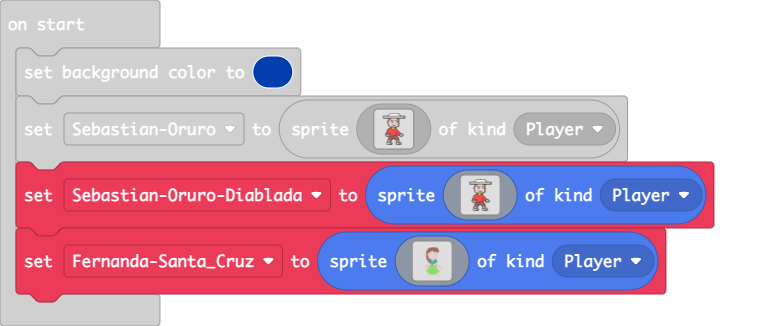
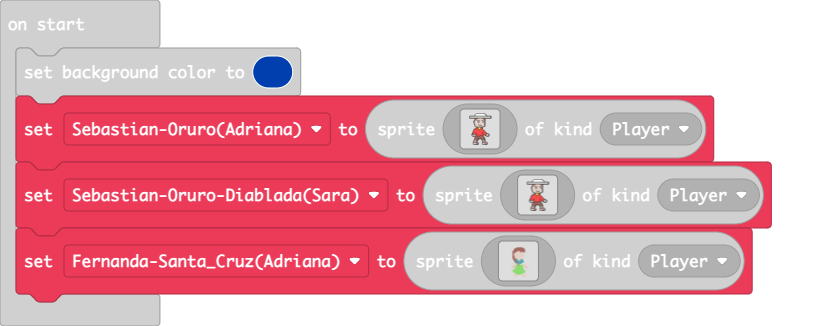
Update main.blocks, main.ts

diff --git a/main.ts b/main.ts
@@ -1,5 +1,5 @@
 scene.setBackgroundColor(8)
-let SebastianOruro = sprites.create(img`
+let SebastianOruroAdriana = sprites.create(img`
     ................fffffffffffff.............
     ...............f1111111111111f............
     ..............f111111111111111f...........
@@ -54,7 +54,7 @@ let SebastianOruro = sprites.create(img`
     ..........fddddeeef......fddddeedf........
     ...........fffffff........fffffff.........
     `, SpriteKind.Player)
-let SebastianOruroDiablada = sprites.create(img`
+let SebastianOruroDiabladaSara = sprites.create(img`
     ................fffffffffffff.............
     ...............f1111111111111f............
     ..............f111111111111111f...........
@@ -109,7 +109,7 @@ let SebastianOruroDiablada = sprites.create(img`
     ..........fddddeeef......fddddeedf........
     ...........fffffff........fffffff.........
     `, SpriteKind.Player)
-let FernandaSanta_Cruz = sprites.create(img`
+let FernandaSanta_CruzAdriana = sprites.create(img`
     .......................................
     .......................................
     .......................................
